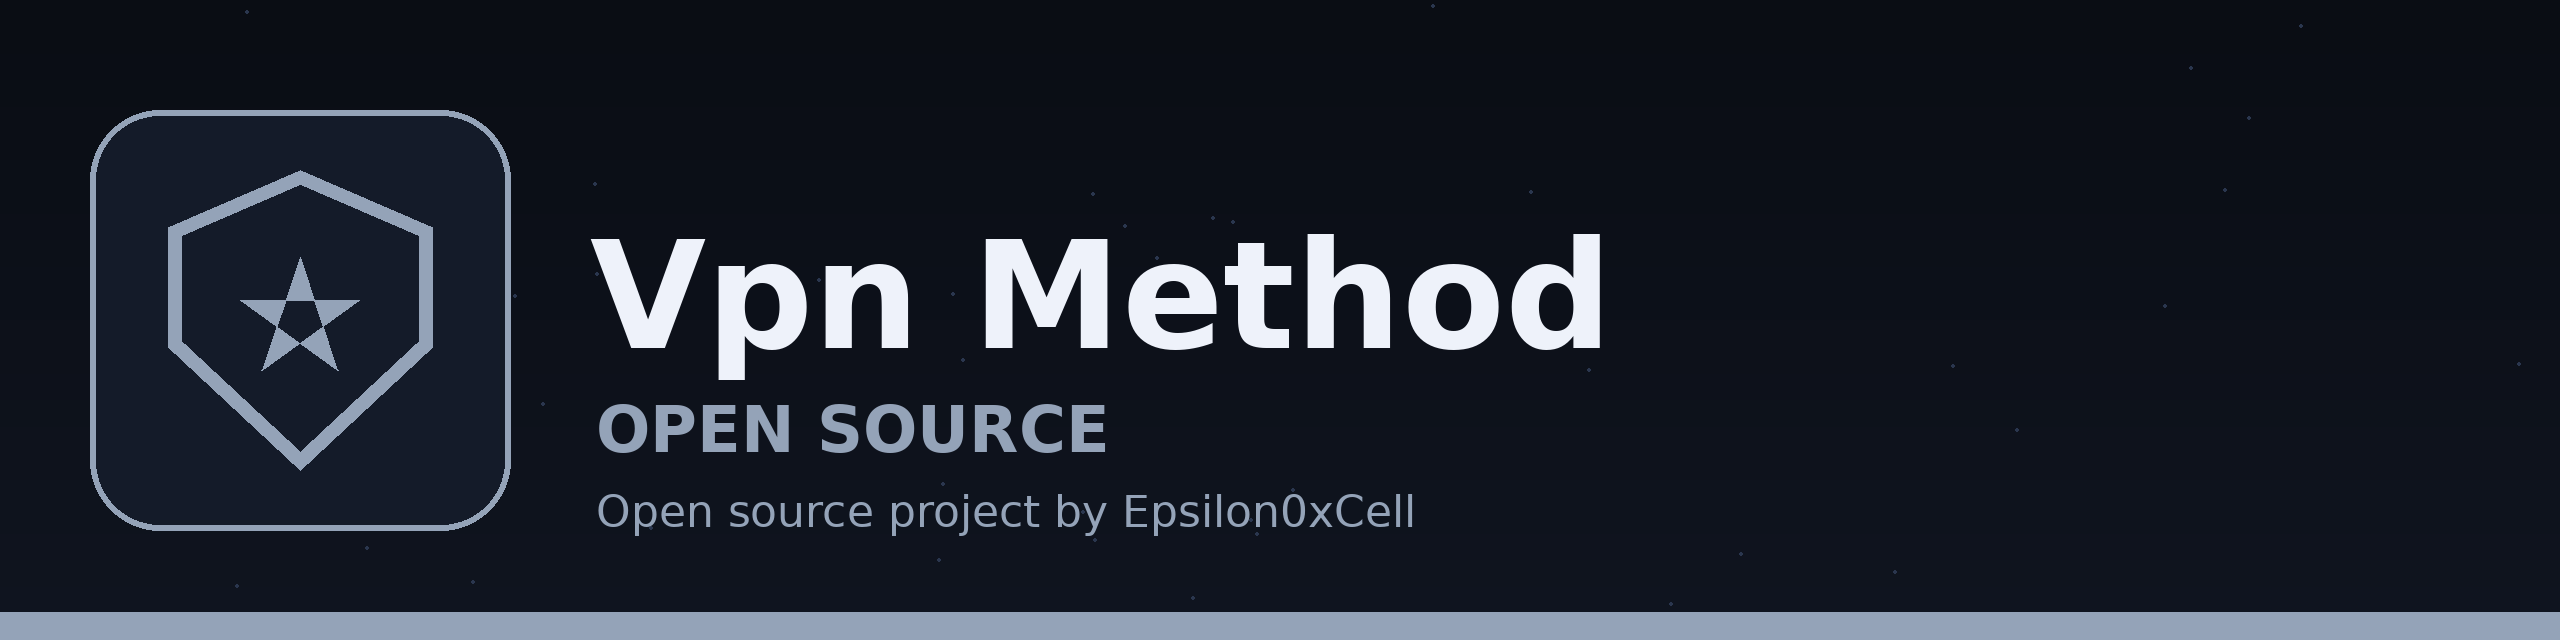
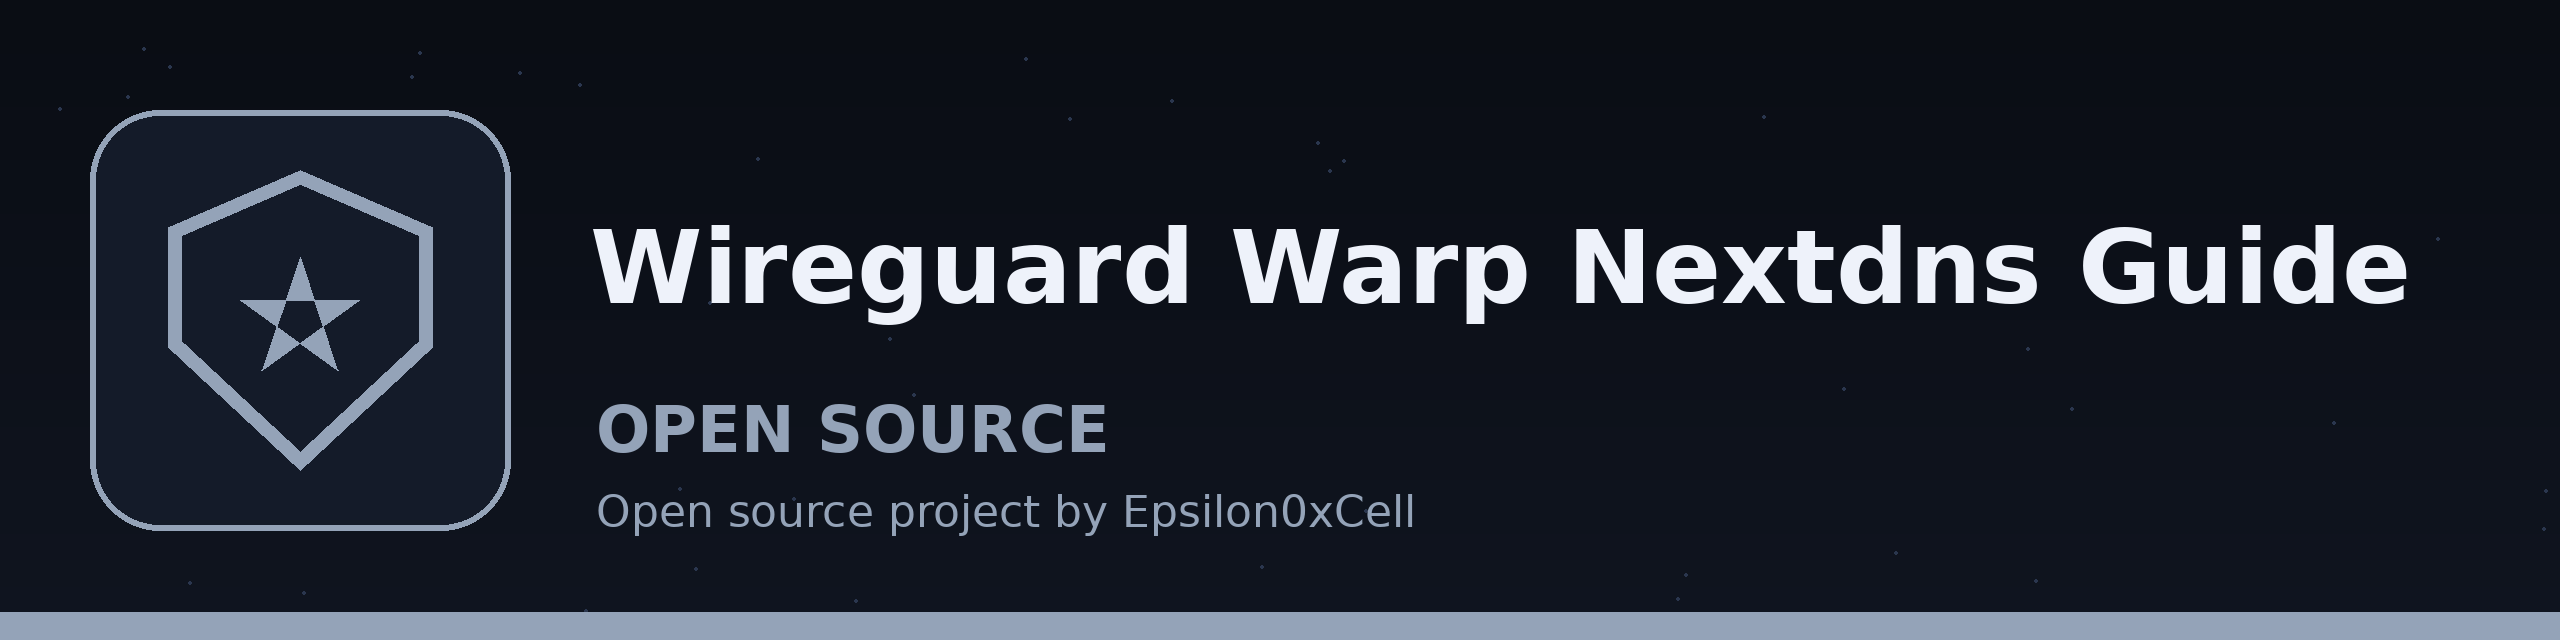
Update name to WireGuard-WARP-NextDNS-Guide: README title and branding

Changed region(s): [[0.2188, 0.3438, 0.9375, 0.5938]]

diff --git a/README.md b/README.md
@@ -1,6 +1,6 @@
 ![Banner](banner.png)
 
-# VPN-Method
+# WireGuard-WARP-NextDNS-Guide
 ```
 https://gcqd.fr/22/07/04/Wireguard-full-power-with-warp-and-nextdns
 https://github.com/ViRb3/wgcf/issues/279
